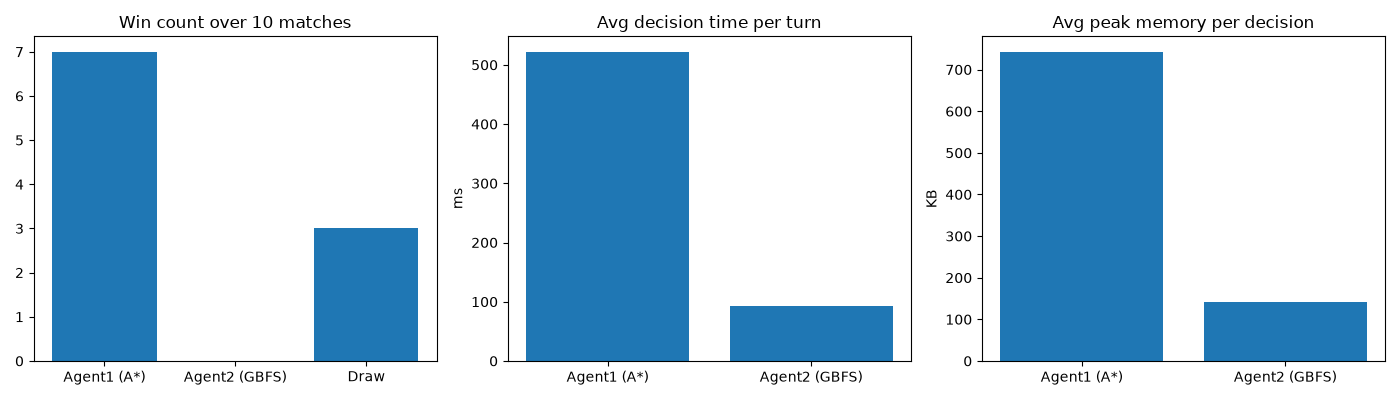
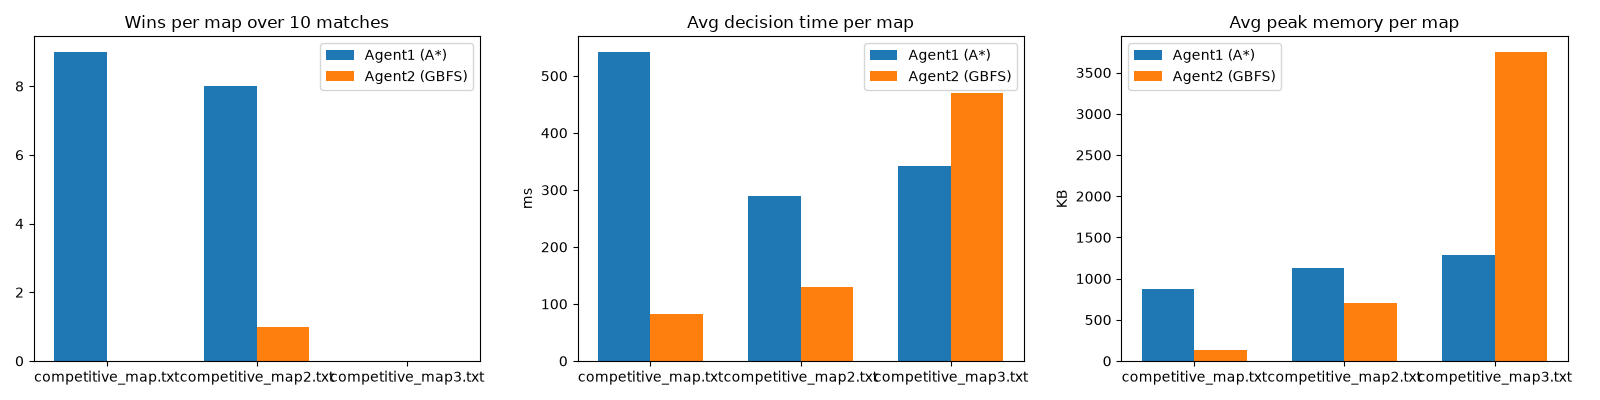
Add 2 more competitive maps, fix GBFS agent and deadlock conflict resolution
Add competitive_map2/3 for A* vs GBFS comparison; wire into GUI map
selector; fix bugs in agent2 (GBFS) and deadlock handling in
competitive_engine/state; rerun experiment results.

diff --git a/docs/experiments/compare_agents.py b/docs/experiments/compare_agents.py
@@ -14,7 +14,9 @@ from source.task2_competitive.competitive_engine import CompetitiveEngine
 from source.task2_competitive.agent1 import Agent1                       
 from source.task2_competitive.agent2 import Agent2                       
                                          
-MAP_PATH = "maps/competitive_map.txt"                                    
+MAP_PATHS = ["maps/competitive_map.txt",
+            "maps/competitive_map2.txt",
+            "maps/competitive_map3.txt"]                               
 MAX_TURNS = 100 
 NUM_MATCHES = 10
 
@@ -55,47 +57,77 @@ def run_match(initial_state, max_turns):
     }
 
 def main():                                                                     
-    root = Path(__file__).resolve().parents[2]                                  
-    initial_state = CompetitiveState.from_file(root / MAP_PATH)                 
+    root = Path(__file__).resolve().parents[2]
+    rows = []
+    map_summaries = []
+
+    for map_path in MAP_PATHS:
+        initial_state = CompetitiveState.from_file(root / map_path)
+        map_name = Path(map_path).name
+        map_rows = []
+
+        for match_id in range(NUM_MATCHES):                                         
+            result = run_match(initial_state, MAX_TURNS)                          
+            result["match"] = match_id
+            result["map"] = map_name
+            rows.append(result)
+            map_rows.append(result)                                                
+            print(map_name, match_id, result)
+
+        wins1 = sum(1 for r in map_rows if r["winner"] == 1)                          
+        wins2 = sum(1 for r in map_rows if r["winner"] == 2)                          
+        draws = sum(1 for r in map_rows if r["winner"] is None)               
+        avg_time1 = sum(r["avg_time1_ms"] for r in map_rows) / len(map_rows)         
+        avg_time2 = sum(r["avg_time2_ms"] for r in map_rows) / len(map_rows)
+        avg_peak1 = sum(r["avg_peak1_kb"] for r in map_rows) / len(map_rows)         
+        avg_peak2 = sum(r["avg_peak2_kb"] for r in map_rows) / len(map_rows)
+
+        map_summaries.append({             
+            "map": map_name,               
+            "wins1": wins1, "wins2": wins2, "draws": draws,                     
+            "avg_time1": avg_time1, "avg_time2": avg_time2,                    
+            "avg_peak1": avg_peak1, "avg_peak2": avg_peak2,                    
+        })                        
                                                                                 
-    rows = []                                                                   
-    for match_id in range(NUM_MATCHES):                                         
-        result = run_match(initial_state, MAX_TURNS)                            
-        result["match"] = match_id                                              
-        rows.append(result)                                                     
-        print(match_id, result)                                                 
-                                                                                
-    fieldnames = [                                                              
-        "match", "turns", "score1", "score2", "winner",                         
-        "avg_time1_ms", "avg_time2_ms", "avg_peak1_kb", "avg_peak2_kb",         
+    fieldnames = [                         
+        "match", "map", "turns", "score1", "score2", "winner",                        
+        "avg_time1_ms", "avg_time2_ms", "avg_peak1_kb", "avg_peak2_kb",            
     ]
 
-    out_path = root / "docs" / "experiments" / "agents_results.csv"             
-    with open(out_path, "w", newline="", encoding="utf-8") as f:                
-        writer = csv.DictWriter(f, fieldnames=fieldnames)                                            
-        writer.writeheader()                                                    
-        writer.writerows(rows)                                                  
+    out_path = root / "docs" / "experiments" / "agents_results.csv"       
+    with open(out_path, "w", newline="", encoding="utf-8") as f:                    
+        writer = csv.DictWriter(f, fieldnames=fieldnames)                     
+        writer.writeheader()               
+        writer.writerows(rows)                                          
                                                                                 
-    wins1 = sum(1 for r in rows if r["winner"] == 1)                            
-    wins2 = sum(1 for r in rows if r["winner"] == 2)                            
-    draws = sum(1 for r in rows if r["winner"] is None)                         
+    map_names = [s["map"] for s in map_summaries]                             
+    x = list(range(len(map_names)))        
+    width = 0.35            
                                                                                 
-    fig, axes = plt.subplots(1, 3, figsize=(14, 4))                             
+    fig, axes = plt.subplots(1, 3, figsize=(16, 4))                             
                                                                                 
-    axes[0].bar(["Agent1 (A*)", "Agent2 (GBFS)", "Draw"], [wins1, wins2, draws])                                                                         
-    axes[0].set_title(f"Win count over {NUM_MATCHES} matches")
+    axes[0].bar([i - width / 2 for i in x], [s["wins1"] for s in map_summaries], width, label="Agent1 (A*)")                
+    axes[0].bar([i + width / 2 for i in x], [s["wins2"] for s in map_summaries], width, label="Agent2 (GBFS)")              
+    axes[0].set_xticks(x)
+    axes[0].set_xticklabels(map_names)     
+    axes[0].set_title(f"Wins per map over {NUM_MATCHES} matches")                    
+    axes[0].legend()
 
-    avg_time1 = sum(r["avg_time1_ms"] for r in rows) / len(rows)                
-    avg_time2 = sum(r["avg_time2_ms"] for r in rows) / len(rows)                
-    axes[1].bar(["Agent1 (A*)", "Agent2 (GBFS)"], [avg_time1, avg_time2])       
-    axes[1].set_ylabel("ms")                                                    
-    axes[1].set_title("Avg decision time per turn")                             
+    axes[1].bar([i - width / 2 for i in x], [s["avg_time1"] for s in map_summaries], width, label="Agent1 (A*)")
+    axes[1].bar([i + width / 2 for i in x], [s["avg_time2"] for s in map_summaries], width, label="Agent2 (GBFS)")                                   
+    axes[1].set_xticks(x)                  
+    axes[1].set_xticklabels(map_names)     
+    axes[1].set_ylabel("ms")               
+    axes[1].set_title("Avg decision time per map")                                  
+    axes[1].legend()                             
                                                                                 
-    avg_peak1 = sum(r["avg_peak1_kb"] for r in rows) / len(rows)                
-    avg_peak2 = sum(r["avg_peak2_kb"] for r in rows) / len(rows)                
-    axes[2].bar(["Agent1 (A*)", "Agent2 (GBFS)"], [avg_peak1, avg_peak2])       
-    axes[2].set_ylabel("KB")                                                    
-    axes[2].set_title("Avg peak memory per decision")                           
+    axes[2].bar([i - width / 2 for i in x], [s["avg_peak1"] for s in map_summaries], width, label="Agent1 (A*)")                                     
+    axes[2].bar([i + width / 2 for i in x], [s["avg_peak2"] for s in map_summaries], width, label="Agent2 (GBFS)")                                   
+    axes[2].set_xticks(x)                  
+    axes[2].set_xticklabels(map_names)     
+    axes[2].set_ylabel("KB")               
+    axes[2].set_title("Avg peak memory per map")
+    axes[2].legend()                         
                                                                                 
     fig.tight_layout()                                                          
     fig.savefig(root / "docs" / "experiments" / "agents_results.png")           

diff --git a/source/task2_competitive/competitive_engine.py b/source/task2_competitive/competitive_engine.py
@@ -66,11 +66,10 @@ class CompetitiveEngine:
         target = self._add(start, direction)
         proposal = MoveProposal(agent_id, start, target)
 
-        # Waiting is always legal.
         if target == start:
             return proposal
 
-        # Cannot move outside the map or into a wall.
+        # Không di chuyển xuyên tường
         if (
             not self._is_inside(target)
             or target in self.state.walls
@@ -78,11 +77,10 @@ class CompetitiveEngine:
             proposal.valid = False
             return proposal
 
-        # Ordinary movement.
         if target not in self.state.boxes:
             return proposal
 
-        # Pushing a box.
+        # Đẩy hộp
         box_target = self._add(target, direction)
 
         if (
@@ -99,10 +97,6 @@ class CompetitiveEngine:
         return proposal
 
     def step(self, actions: Dict[int, str]):
-        """
-        Apply one simultaneous game turn.
-        Returns a report describing the resolved turn.
-        """
         if self.finished:
             raise RuntimeError("The game has already finished.")
 
@@ -141,27 +135,25 @@ class CompetitiveEngine:
         ):
             self._resolve_conflict(p1, p2)
 
-        # A box cannot be pushed into the other agent's destination.
+        # Cả 2 agent không được đẩy box đi cùng hướng tới 1 target
         for pusher, other in ((p1, p2), (p2, p1)):
             if pusher.valid and other.valid and pusher.box_to is not None:
                 if pusher.box_to == other.target:
                     self._resolve_conflict(pusher, other)
                     continue
 
-                # Avoid entering the old cell of a box being pushed.
+                # Không cho agent còn lại đẩy box vào ô box cũ của agent kia
                 if other.target == pusher.box_from:
                     self._resolve_conflict(pusher, other)
 
-        # An agent cannot enter a cell occupied by an agent
-        # that is staying in place.
+        # Khi 1 agent đang đứng yên, thì agent kia không được đi vào, cũng không dùng xác suất p
         for mover, other in ((p1, p2), (p2, p1)):
             if mover.target == other.start and other.target == other.start:
                 mover.valid = False
 
-        # Resolve dependencies when an agent tries to enter
-        # the current position of the other agent.
         changed = True
 
+        # Trường hợp nếu 1 agent muốn vào ô của agent kia đang đứng, với điều kiện agent kia phải rời đi thì mới được vào, còn không thì agent sẽ không vào ô đó
         while changed:
             changed = False
 
@@ -176,7 +168,7 @@ class CompetitiveEngine:
                 if not other.valid or other.target == other.start:
                     mover.valid = False
                     changed = True
-        # Apply box pushes only after resolving conflicts.
+        
         for proposal in (p1, p2):
             if proposal.valid and proposal.box_from is not None:
                 owner = self.state.boxes.pop(proposal.box_from)

diff --git a/source/task2_competitive/competitive_state.py b/source/task2_competitive/competitive_state.py
@@ -18,7 +18,6 @@ class CompetitiveState:
 
     @classmethod
     def from_text(cls, text: str):
-        """Create a competitive Sokoban state from map text."""
         lines = text.splitlines()
 
         if not lines:
@@ -36,7 +35,6 @@ class CompetitiveState:
             for x in range(width):
                 pos = (x, y)
 
-                # Missing cells in shorter rows are treated as walls.
                 if x >= len(line):
                     walls.add(pos)
                     continue
@@ -93,12 +91,11 @@ class CompetitiveState:
 
     @classmethod
     def from_file(cls, path: str):
-        """Load a map from a UTF-8 text file."""
         with open(path, "r", encoding="utf-8") as file:
             return cls.from_text(file.read())
 
     def clone(self):
-        """Create an independent copy of the state."""
+        # Tạo trạng thái độc lập
         return CompetitiveState(
             width=self.width,
             height=self.height,
@@ -110,7 +107,7 @@ class CompetitiveState:
         )
 
     def score(self, agent_id: int) -> int:
-        """Count goal-occupied boxes owned by this agent."""
+        # Đếm các ô chứa mục tiêu của agent
         return sum(
             1
             for pos, owner in self.boxes.items()
@@ -118,17 +115,16 @@ class CompetitiveState:
         )
 
     def total_completed(self) -> int:
-        """Count all boxes currently on goals."""
+        # Đếm tất cả box nằm trên target
         return sum(pos in self.goals for pos in self.boxes)
 
     def is_solved(self) -> bool:
-        """True when every box is on a goal."""
         return bool(self.boxes) and all(
             pos in self.goals for pos in self.boxes
         )
 
     def winner(self):
-        """Return 1, 2, or None for a tie."""
+        # Trả về 1, 2 nếu None là hòa
         score_1 = self.score(1)
         score_2 = self.score(2)
 

diff --git a/source/task2_competitive/agent1.py b/source/task2_competitive/agent1.py
@@ -31,10 +31,6 @@ class Agent1:
         )
 
     def get_successors(self, state, player, boxes):
-        """
-        boxes is a tuple of (position, owner) pairs.
-        Agent 2 is treated as a static obstacle.
-        """
         successors = []
         opponent = state.agents[2]
 
@@ -89,12 +85,6 @@ class Agent1:
         )
 
     def heuristic(self, player, boxes, goals):
-        """
-        Estimate the effort needed to score the next point.
-
-        This is a competitive search estimate, not a
-        guaranteed admissible Sokoban heuristic.
-        """
         box_dict = dict(boxes)
         candidates = []
 
@@ -109,8 +99,6 @@ class Agent1:
                 behind = (bx - dx, by - dy)
                 destination = (bx + dx, by + dy)
 
-                # Prefer boxes that can be approached.
-                # Actual legality is checked in successors.
                 if destination in box_dict:
                     continue
 

diff --git a/gui/screens/competitive_setup_screen.py b/gui/screens/competitive_setup_screen.py
@@ -23,7 +23,9 @@ class CompetitiveSetupScreen(BaseScreen):
 
     # Chỉ chọn các map có đủ A và X.
     MAPS = [
-        ("competitive map", "competitive_map.txt"),
+        ("Map 1", "competitive_map.txt"),  
+        ("Map 2", "competitive_map2.txt"), 
+        ("Map 3", "competitive_map3.txt"),
     ]
 
     def __init__(self, app):

diff --git a/source/task2_competitive/agent2.py b/source/task2_competitive/agent2.py
@@ -81,10 +81,6 @@ class Agent2:
         )
 
     def heuristic(self, player, boxes, goals, state):
-        """
-        Greedy estimate of effort to gain another point.
-        Lower values are preferred.
-        """
         box_dict = dict(boxes)
         opponent = state.agents[1]
         candidates = []
